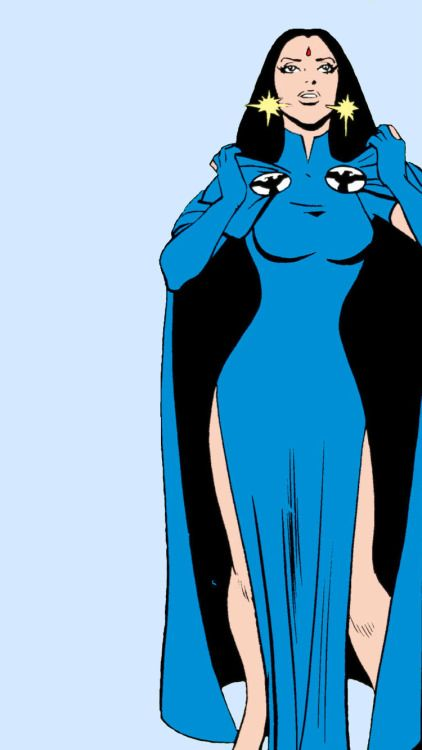
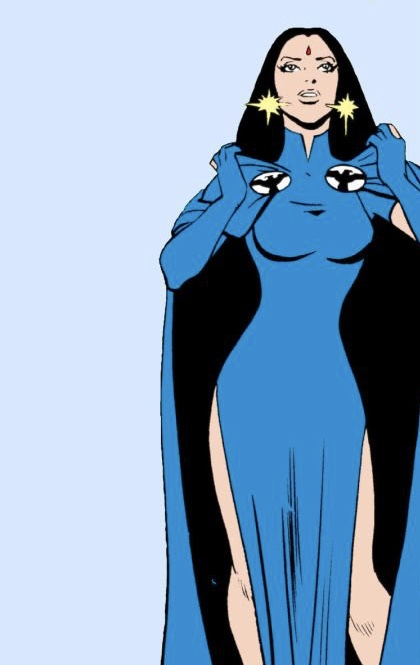
changing some comic pics in about page for sizing

diff --git a/web/html/about.html b/web/html/about.html
@@ -67,11 +67,11 @@
                 Starfire (Koriand'r) - Comic
             </div>
             <div class="imageContainer" id="BeastBoyComic">
-                <a href="https://en.wikipedia.org/wiki/Beast_Boy"><img src="beast-boyComic.JPG" alt="Beast Boy in the comic" style="width:100%"/></a>
+                <a href="https://en.wikipedia.org/wiki/Beast_Boy"><img src="beastBoy-changeling.jpg" alt="Beast Boy in the comic" style="width:100%"/></a>
                 Beast Boy (The Changeling) - Comic
             </div>
             <div class="imageContainer" id="RavenComic">
-                <a href="https://en.wikipedia.org/wiki/Raven_(DC_Comics)"><img src="ravenComic.JPG" alt="Raven in the comic" style="width:100%"/></a>
+                <a href="https://en.wikipedia.org/wiki/Raven_(DC_Comics)"><img src="ravenComic.jpg" alt="Raven in the comic" style="width:100%"/></a>
                 Raven  - Comic
             </div>
         </section>
